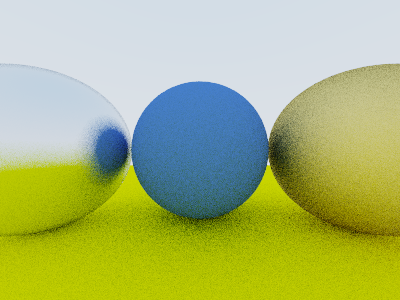
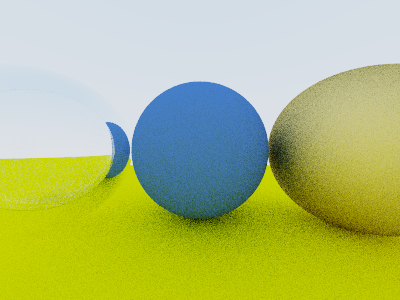
Dielectric material

diff --git a/src/Materials/Dielectric.cpp b/src/Materials/Dielectric.cpp
@@ -1,0 +1,43 @@
+#include "Dielectric.hpp"
+
+#include "Core/Rng.hpp"
+
+namespace {
+
+    f32 Reflectance(f32 cosine, f32 ri)
+    {
+        f32 r0 = (1.0f - ri) / (1.0f + ri);
+        r0 = r0 * r0;
+        return r0 + (1.0f - r0) * std::pow(1.0f - cosine, 5.0f);
+    }
+
+}
+
+Dielectric::Dielectric(f32 ri)
+    : m_RefractionIndex(ri)
+{
+}
+
+bool Dielectric::Scatter(const Ray& ray, const HitRecord& record, glm::vec3& attenuation, Ray& scattered) const
+{
+    attenuation = glm::vec3(1.0f);
+
+    f32 ri = record.frontFace ? (1.0f / m_RefractionIndex) : m_RefractionIndex;
+
+    glm::vec3 unitDir = glm::normalize(ray.direction);
+    f32 cosTheta = std::fmin(glm::dot(-unitDir, record.normal), 1.0f);
+    f32 sinTheta = std::sqrtf(1.0f - cosTheta * cosTheta);
+
+    bool cannotRefract = ri * sinTheta > 1.0f;
+    glm::vec3 direction;
+
+    if (cannotRefract || Reflectance(cosTheta, ri) > Random::Float32()) {
+        direction = glm::reflect(unitDir, record.normal);
+    } else {
+        direction = glm::refract(unitDir, record.normal, ri);
+    }
+
+    scattered = Ray(record.p, direction);
+
+    return true;
+}

diff --git a/src/Main.cpp b/src/Main.cpp
@@ -35,7 +35,7 @@ int main()
 
 	auto ground = scene->CreateMaterial<Lambertian>(glm::vec3(0.8f, 0.8f, 0.0f));
 	auto center = scene->CreateMaterial<Lambertian>(glm::vec3(0.1f, 0.2f, 0.5f));
-	auto left = scene->CreateMaterial<Metal>(glm::vec3(0.8f, 0.8f, 0.8f), 0.3f);
+	auto left = scene->CreateMaterial<Dielectric>(1.0f / 1.33f);
 	auto right = scene->CreateMaterial<Metal>(glm::vec3(0.8f, 0.6f, 0.2f), 1.0f);
 
 	scene->Push<Sphere>(glm::vec3( 0.0f, -100.5f, -1.0f), 100.0f, ground);

diff --git a/src/Materials/Material.hpp b/src/Materials/Material.hpp
@@ -4,6 +4,7 @@
 
 #include "Lambertian.hpp"
 #include "Metal.hpp"
+#include "Dielectric.hpp"
 
 template <typename T>
 concept Scatterable = requires(const T& t, const Ray& r, const HitRecord& rec, glm::vec3& att, Ray& scat)
@@ -13,7 +14,8 @@ concept Scatterable = requires(const T& t, const Ray& r, const HitRecord& rec, g
 
 using MaterialVariant = std::variant<
     Lambertian,
-    Metal
+    Metal,
+    Dielectric
 >;
 
 template <typename T>

diff --git a/src/Materials/Dielectric.hpp b/src/Materials/Dielectric.hpp
@@ -1,0 +1,17 @@
+#pragma once
+
+#include <glm/glm.hpp>
+
+#include "Primitives/HitRecord.hpp"
+#include "Containers/Ray.hpp"
+
+class Dielectric
+{
+public:
+    Dielectric(f32 ri);
+
+    bool Scatter(const Ray& ray, const HitRecord& record, glm::vec3& attenuation, Ray& scattered) const;
+
+private:
+    f32 m_RefractionIndex;
+};
